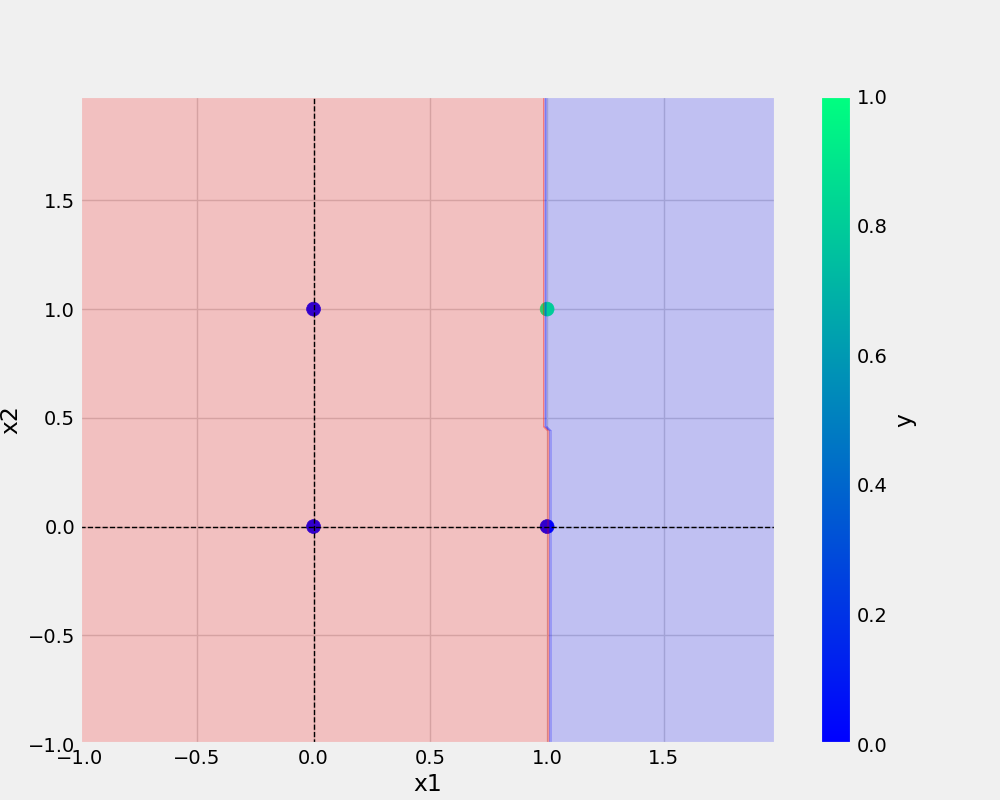
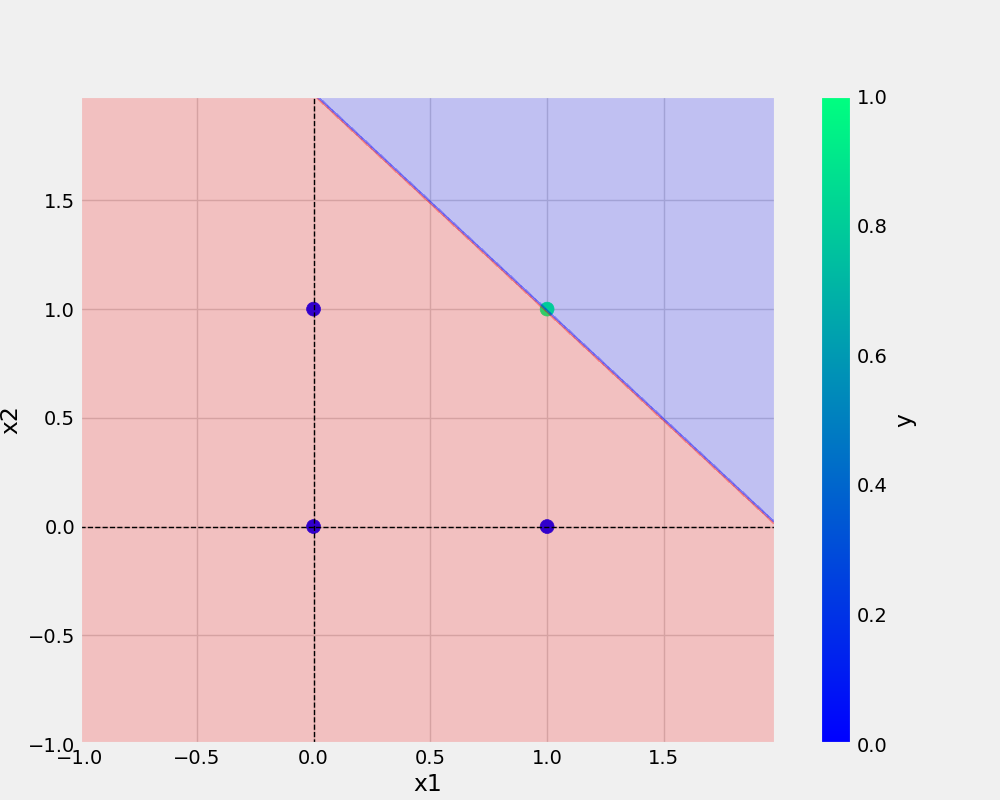
modefy or.py,and.py and xor.py

Changed region(s): [[0.31, 0.125, 0.775, 0.9375]]

diff --git a/or.py b/or.py
@@ -3,21 +3,26 @@ from utils.all_utils import prepare_data, save_model,save_plot
 import pandas as pd 
 import numpy as np 
 
-AND = {
+def main(data,eta,epochs,modelName,plotName):
+    df=pd.DataFrame(data)
+    print(df)
+
+    x,y=prepare_data(df)
+
+    model = Perceptron(eta=ETA,epochs=EPOCHS)
+    model.fit(x,y)
+    _ = model.total_loss()
+
+    save_model(model,filename=modelName)
+    save_plot(df,plotName,model)
+
+if __name__ == "__main__":
+    OR = {
     "x1":[0,0,1,1],
     "x2":[0,1,0,1],
-    "y":[0,0,0,1]
-}
-df=pd.DataFrame(AND)
-print(df)
+    "y":[0,1,1,1]
+    }
+    ETA=0.3 # Learning rate lies between 0 and 1
+    EPOCHS=10
 
-x,y=prepare_data(df)
-
-ETA=0.3 # Learning rate lies between 0 and 1
-EPOCHS=10
-model = Perceptron(eta=ETA,epochs=EPOCHS)
-model.fit(x,y)
-_ = model.total_loss()
-
-save_model(model,filename="and.model")
-save_plot(df,"and.png",model)
+    main(data=OR,eta=ETA,epochs=EPOCHS,modelName="or.model",plotName="or.png")

diff --git a/and.py b/and.py
@@ -3,21 +3,26 @@ from utils.all_utils import prepare_data, save_model,save_plot
 import pandas as pd 
 import numpy as np 
 
-AND = {
+def main(data,eta,epochs,modelName,plotName):
+    df=pd.DataFrame(data)
+    print(df)
+
+    x,y=prepare_data(df)
+
+    model = Perceptron(eta=ETA,epochs=EPOCHS)
+    model.fit(x,y)
+    _ = model.total_loss()
+
+    save_model(model,filename=modelName)
+    save_plot(df,plotName,model)
+
+if __name__ == "__main__":
+    AND = {
     "x1":[0,0,1,1],
     "x2":[0,1,0,1],
     "y":[0,0,0,1]
-}
-df=pd.DataFrame(AND)
-print(df)
+    }
+    ETA=0.3 # Learning rate lies between 0 and 1
+    EPOCHS=10
 
-x,y=prepare_data(df)
-
-ETA=0.3 # Learning rate lies between 0 and 1
-EPOCHS=10
-model = Perceptron(eta=ETA,epochs=EPOCHS)
-model.fit(x,y)
-_ = model.total_loss()
-
-save_model(model,filename="and.model")
-save_plot(df,"and.png",model)
+    main(data=AND,eta=ETA,epochs=EPOCHS,modelName="and.model",plotName="and.png")

diff --git a/xor.py b/xor.py
@@ -1,0 +1,28 @@
+from utils.model import Perceptron
+from utils.all_utils import prepare_data, save_model,save_plot
+import pandas as pd 
+import numpy as np 
+
+def main(data,eta,epochs,modelName,plotName):
+    df=pd.DataFrame(data)
+    print(df)
+
+    x,y=prepare_data(df)
+
+    model = Perceptron(eta=ETA,epochs=EPOCHS)
+    model.fit(x,y)
+    _ = model.total_loss()
+
+    save_model(model,filename=modelName)
+    save_plot(df,plotName,model)
+
+if __name__ == "__main__":
+    XOR = {
+    "x1":[0,0,1,1],
+    "x2":[0,1,0,1],
+    "y":[0,1,1,0]
+    }
+    ETA=0.3 # Learning rate lies between 0 and 1
+    EPOCHS=10
+
+    main(data=XOR,eta=ETA,epochs=EPOCHS,modelName="xor.model",plotName="xor.png")

diff --git a/README.md b/README.md
@@ -13,4 +13,4 @@ my first perceptron project
 8. history 
 
 ## To check different version of the code 
-git checkout versioncode 
+-> git checkout versioncode 
